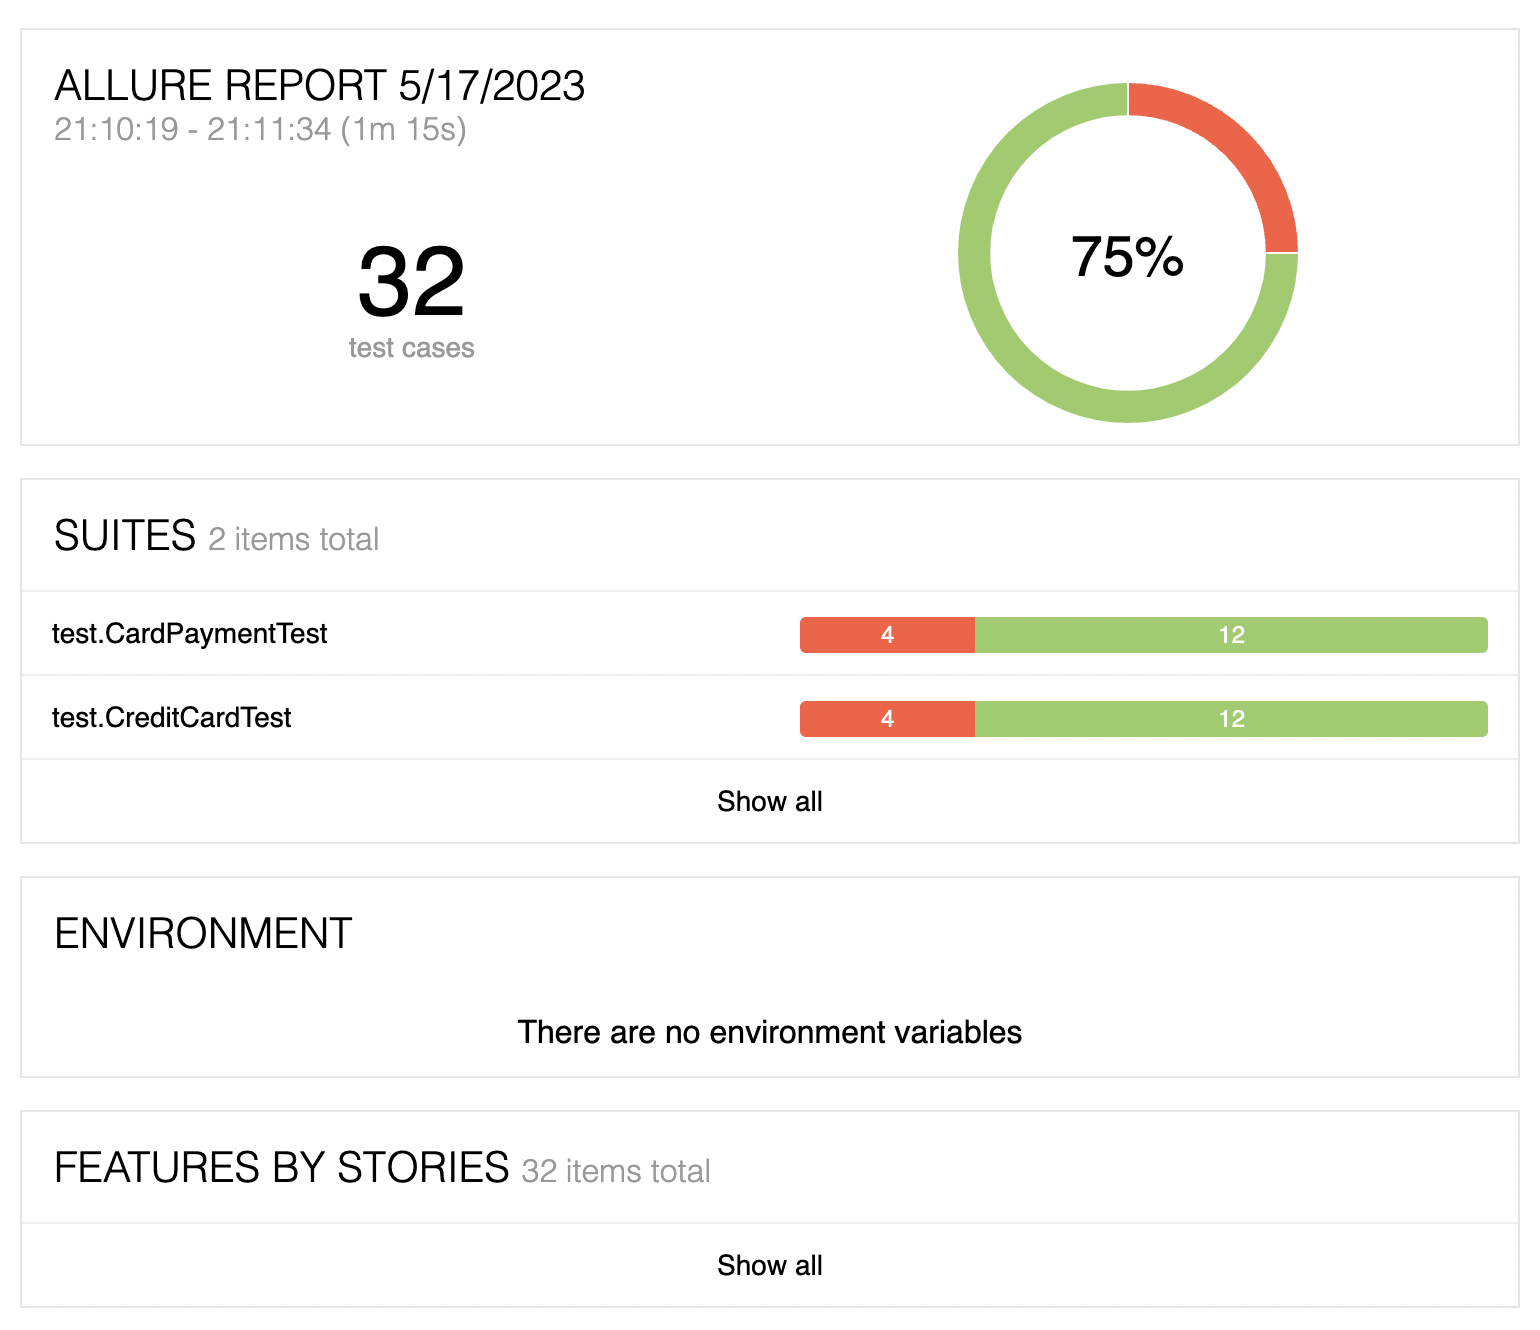
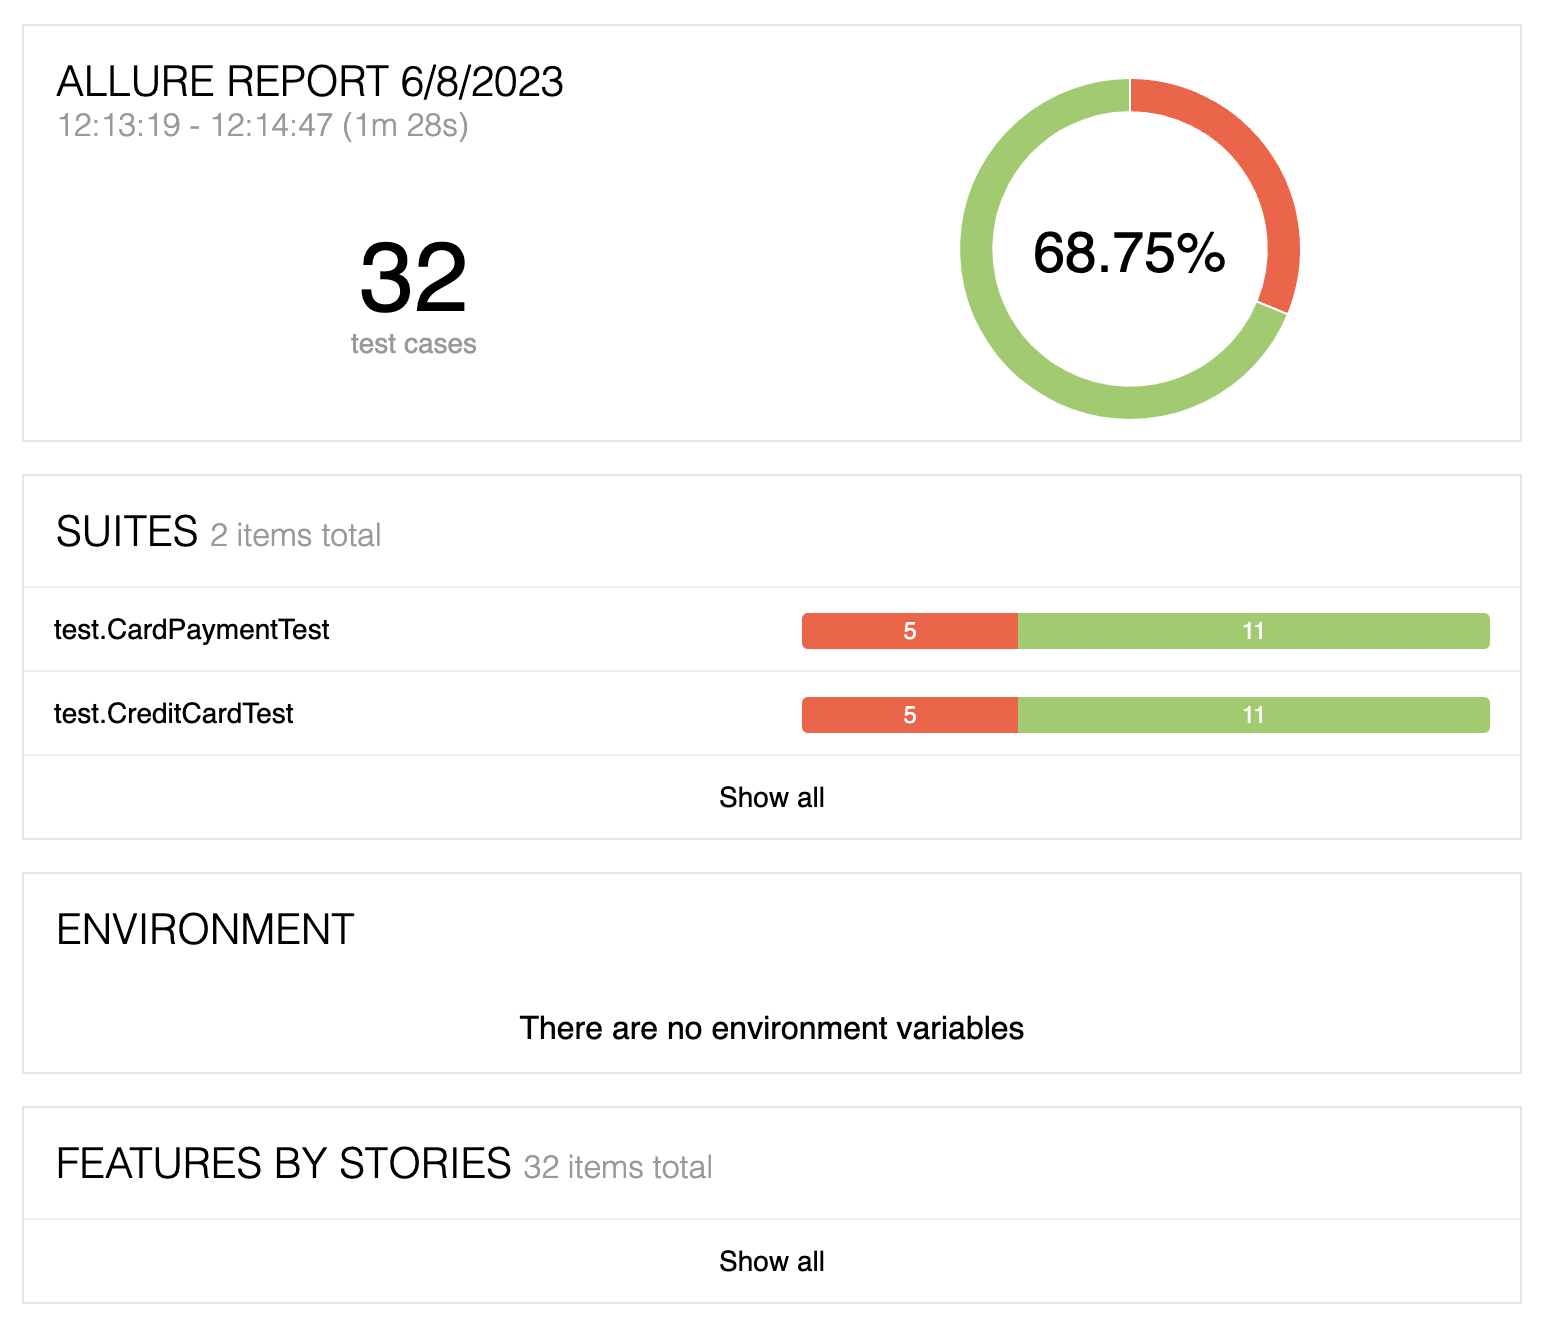
update

diff --git a/docs/Report.md b/docs/Report.md
@@ -11,17 +11,17 @@
 
 При подключении к БД MySQL
 
-Успешных: 24 
+Успешных: 22 
 
-Неуспешных: 8
+Неуспешных: 10
 
 ![MySQL](https://github.com/danya794/ByATourApp/blob/main/docs/MySQL.png)
 
 При подключении к БД PostgreSQL 
 
-Успешных: 22
+Успешных: 21
 
-Неуспешных: 10
+Неуспешных: 11
 
 ![PostgreSQL](https://github.com/danya794/ByATourApp/blob/main/docs/PostgreSQL.png)
 
